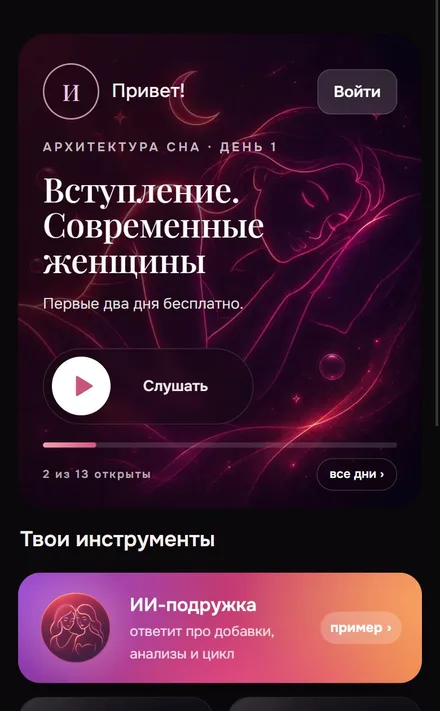
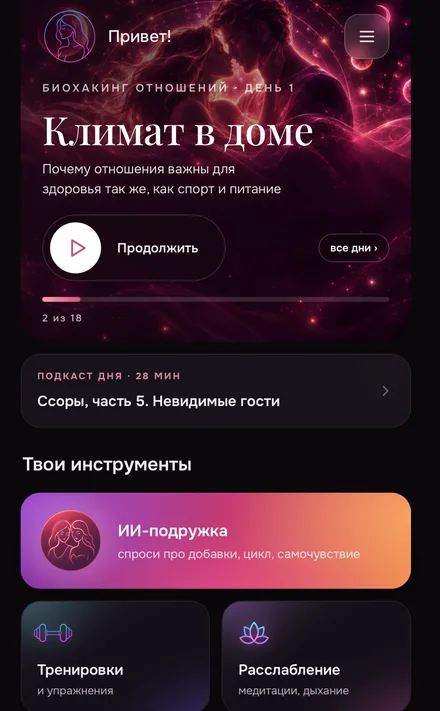
Landing v2: 5 app screens (new friend sheet), how-it-works copy, reviews note, natural-height review shots, centered price on desktop

diff --git a/index.html b/index.html
@@ -143,7 +143,7 @@ p{margin:0;text-wrap:pretty}
 .shot{flex:0 0 min(80vw,300px);margin:0;scroll-snap-align:start;display:flex;flex-direction:column;background:var(--card);border:1px solid rgba(34,25,32,.08);border-radius:22px;padding:16px 14px 14px}
 .shot__q{font-family:var(--serif);font-style:italic;font-size:19px;line-height:1.3;margin:0 0 14px;color:var(--ink)}
 .shot__tag{margin-bottom:8px;font-size:12px;font-weight:600;letter-spacing:.12em;text-transform:uppercase;color:var(--muted-2)}
-.shot img{display:block;width:100%;height:auto;margin-top:auto;border-radius:14px;aspect-ratio:720/780;object-fit:contain;object-position:50% 100%;background:#0E1621}
+.shot img{display:block;width:100%;height:auto;border-radius:14px}
 .rev-note{margin-top:4px;font-size:13px;color:var(--muted-2)}
 
 /* PRICE */
@@ -204,8 +204,8 @@ body.show-sticky .sticky{transform:none;visibility:visible;transition:transform 
   .hero__trust{text-align:left;max-width:560px}
   .tasks{grid-template-columns:repeat(2,minmax(0,1fr));column-gap:48px}
   .more{max-width:360px;margin:16px auto 0}
-  .phones{overflow:visible;margin-right:0;padding-right:0;gap:32px}
-  .phone{flex:0 0 220px}
+  .phones{overflow:visible;margin-right:0;padding-right:0;gap:24px}
+  .phone{flex:1 1 0;min-width:0}
   .sticky{display:none}
   .irena{display:grid;grid-template-columns:220px minmax(0,1fr);gap:64px;align-items:start}
   .irena__photo{width:220px;height:220px}
@@ -214,9 +214,8 @@ body.show-sticky .sticky{transform:none;visibility:visible;transition:transform 
   .rev-nav{display:flex}
   .shots{gap:16px}
   .shot{flex-basis:300px}
-  .price__grid{display:grid;grid-template-columns:minmax(0,1fr) 440px;gap:72px;align-items:center}
-  .price .h2{font-size:40px}
-  .card{margin-top:0}
+  .price__grid{max-width:568px}
+  .price .h2{font-size:40px;text-align:center}
   .faq-wrap{max-width:760px}
   .final{padding:96px 0;text-align:center}
   .final p{max-width:560px;margin-inline:auto}
@@ -329,16 +328,18 @@ if (window.YM_COUNTER) {
 <div class="wrap">
 <h2 class="h2" id="how-h">Как это работает</h2>
 <ol class="steps">
-<li class="step"><span class="step__n">01</span><div><div class="step__when">Утром</div><p class="step__what">Открываешь приложение: подкаст дня уже ждёт тебя каждое утро.</p></div></li>
-<li class="step"><span class="step__n">02</span><div><div class="step__when">В дороге или за готовкой</div><p class="step__what">Слушаешь, когда удобно. Я простым языком объясняю, что происходит в теле и как этим пользоваться.</p></div></li>
-<li class="step"><span class="step__n">03</span><div><div class="step__when">Вечером</div><p class="step__what">Делаешь одно небольшое действие и отмечаешь день пройденным.</p></div></li>
+<li class="step"><span class="step__n">01</span><div><div class="step__when">Утром</div><p class="step__what">Каждое утро в приложении тебя ждёт новый подкаст программы, которую ты выбрала.</p></div></li>
+<li class="step"><span class="step__n">02</span><div><div class="step__when">Днём</div><p class="step__what">Слушаешь его в наушниках, когда удобно. 20-30 минут простыми словами по твоей теме.</p></div></li>
+<li class="step"><span class="step__n">03</span><div><div class="step__when">Вечером</div><p class="step__what">Делаешь одно небольшое задание из выпуска и отмечаешь день. Так, шаг за шагом, проходишь программу.</p></div></li>
 </ol>
 <div class="inside">
 <div class="inside__lbl">Так это выглядит внутри</div>
 <div class="phones">
 <figure class="phone"><img src="assets/img/app-home.webp" width="440" height="711" alt="Главный экран приложения: подкаст дня" loading="lazy"><figcaption>Подкаст дня на главном экране</figcaption></figure>
-<figure class="phone"><img src="assets/img/app-sleep.webp" width="440" height="711" alt="Экран программы «Архитектура сна» со списком дней" loading="lazy"><figcaption>Все дни программы</figcaption></figure>
-<figure class="phone"><img src="assets/img/app-friend.webp" width="440" height="711" alt="Экран ИИ-подружки" loading="lazy"><figcaption>ИИ-подружка отвечает на вопросы</figcaption></figure>
+<figure class="phone"><img src="assets/img/app-program.webp" width="440" height="711" alt="Экран программы со списком дней" loading="lazy"><figcaption>Все дни программы</figcaption></figure>
+<figure class="phone"><img src="assets/img/app-all.webp" width="440" height="711" alt="Экран со всеми программами" loading="lazy"><figcaption>Все 8 программ открыты сразу</figcaption></figure>
+<figure class="phone"><img src="assets/img/app-meditation.webp" width="440" height="711" alt="Экран медитации" loading="lazy"><figcaption>Медитации голосом Ирены</figcaption></figure>
+<figure class="phone"><img src="assets/img/app-friend.webp" width="440" height="711" alt="Экран ИИ-подружки с примером переписки" loading="lazy"><figcaption>ИИ-подружка: наша собственная разработка</figcaption></figure>
 </div>
 </div>
 <p class="reassure">Слушаешь в своём темпе. Программы не связаны между собой, догонять некого.</p>
@@ -366,7 +367,7 @@ if (window.YM_COUNTER) {
 <figure class="shot"><figcaption class="shot__tag">Тренировки</figcaption><p class="shot__q">«Впервые так сильно прочувствовала ягодицы в мостике!»</p><img src="assets/img/otzyv-36.webp" width="720" height="234" alt="Отзыв участницы: Впервые прочувствовала ягодицы в мостике" loading="lazy" decoding="async"></figure>
 <figure class="shot"><figcaption class="shot__tag">Сон</figcaption><p class="shot__q">«Моментально засыпаю»</p><img src="assets/img/otzyv-64.webp" width="720" height="433" alt="Отзыв участницы: С медитацией засыпает за пару минут" loading="lazy" decoding="async"></figure>
 </div>
-<div class="wrap"><p class="rev-note">У каждой свой результат.</p></div>
+<div class="wrap"><p class="rev-note">Каждый отзыв написала такая же занятая женщина, как ты. Следующий отзыв может быть твоим.</p></div>
 </section>
 
 <section class="section" aria-labelledby="irena-h">
